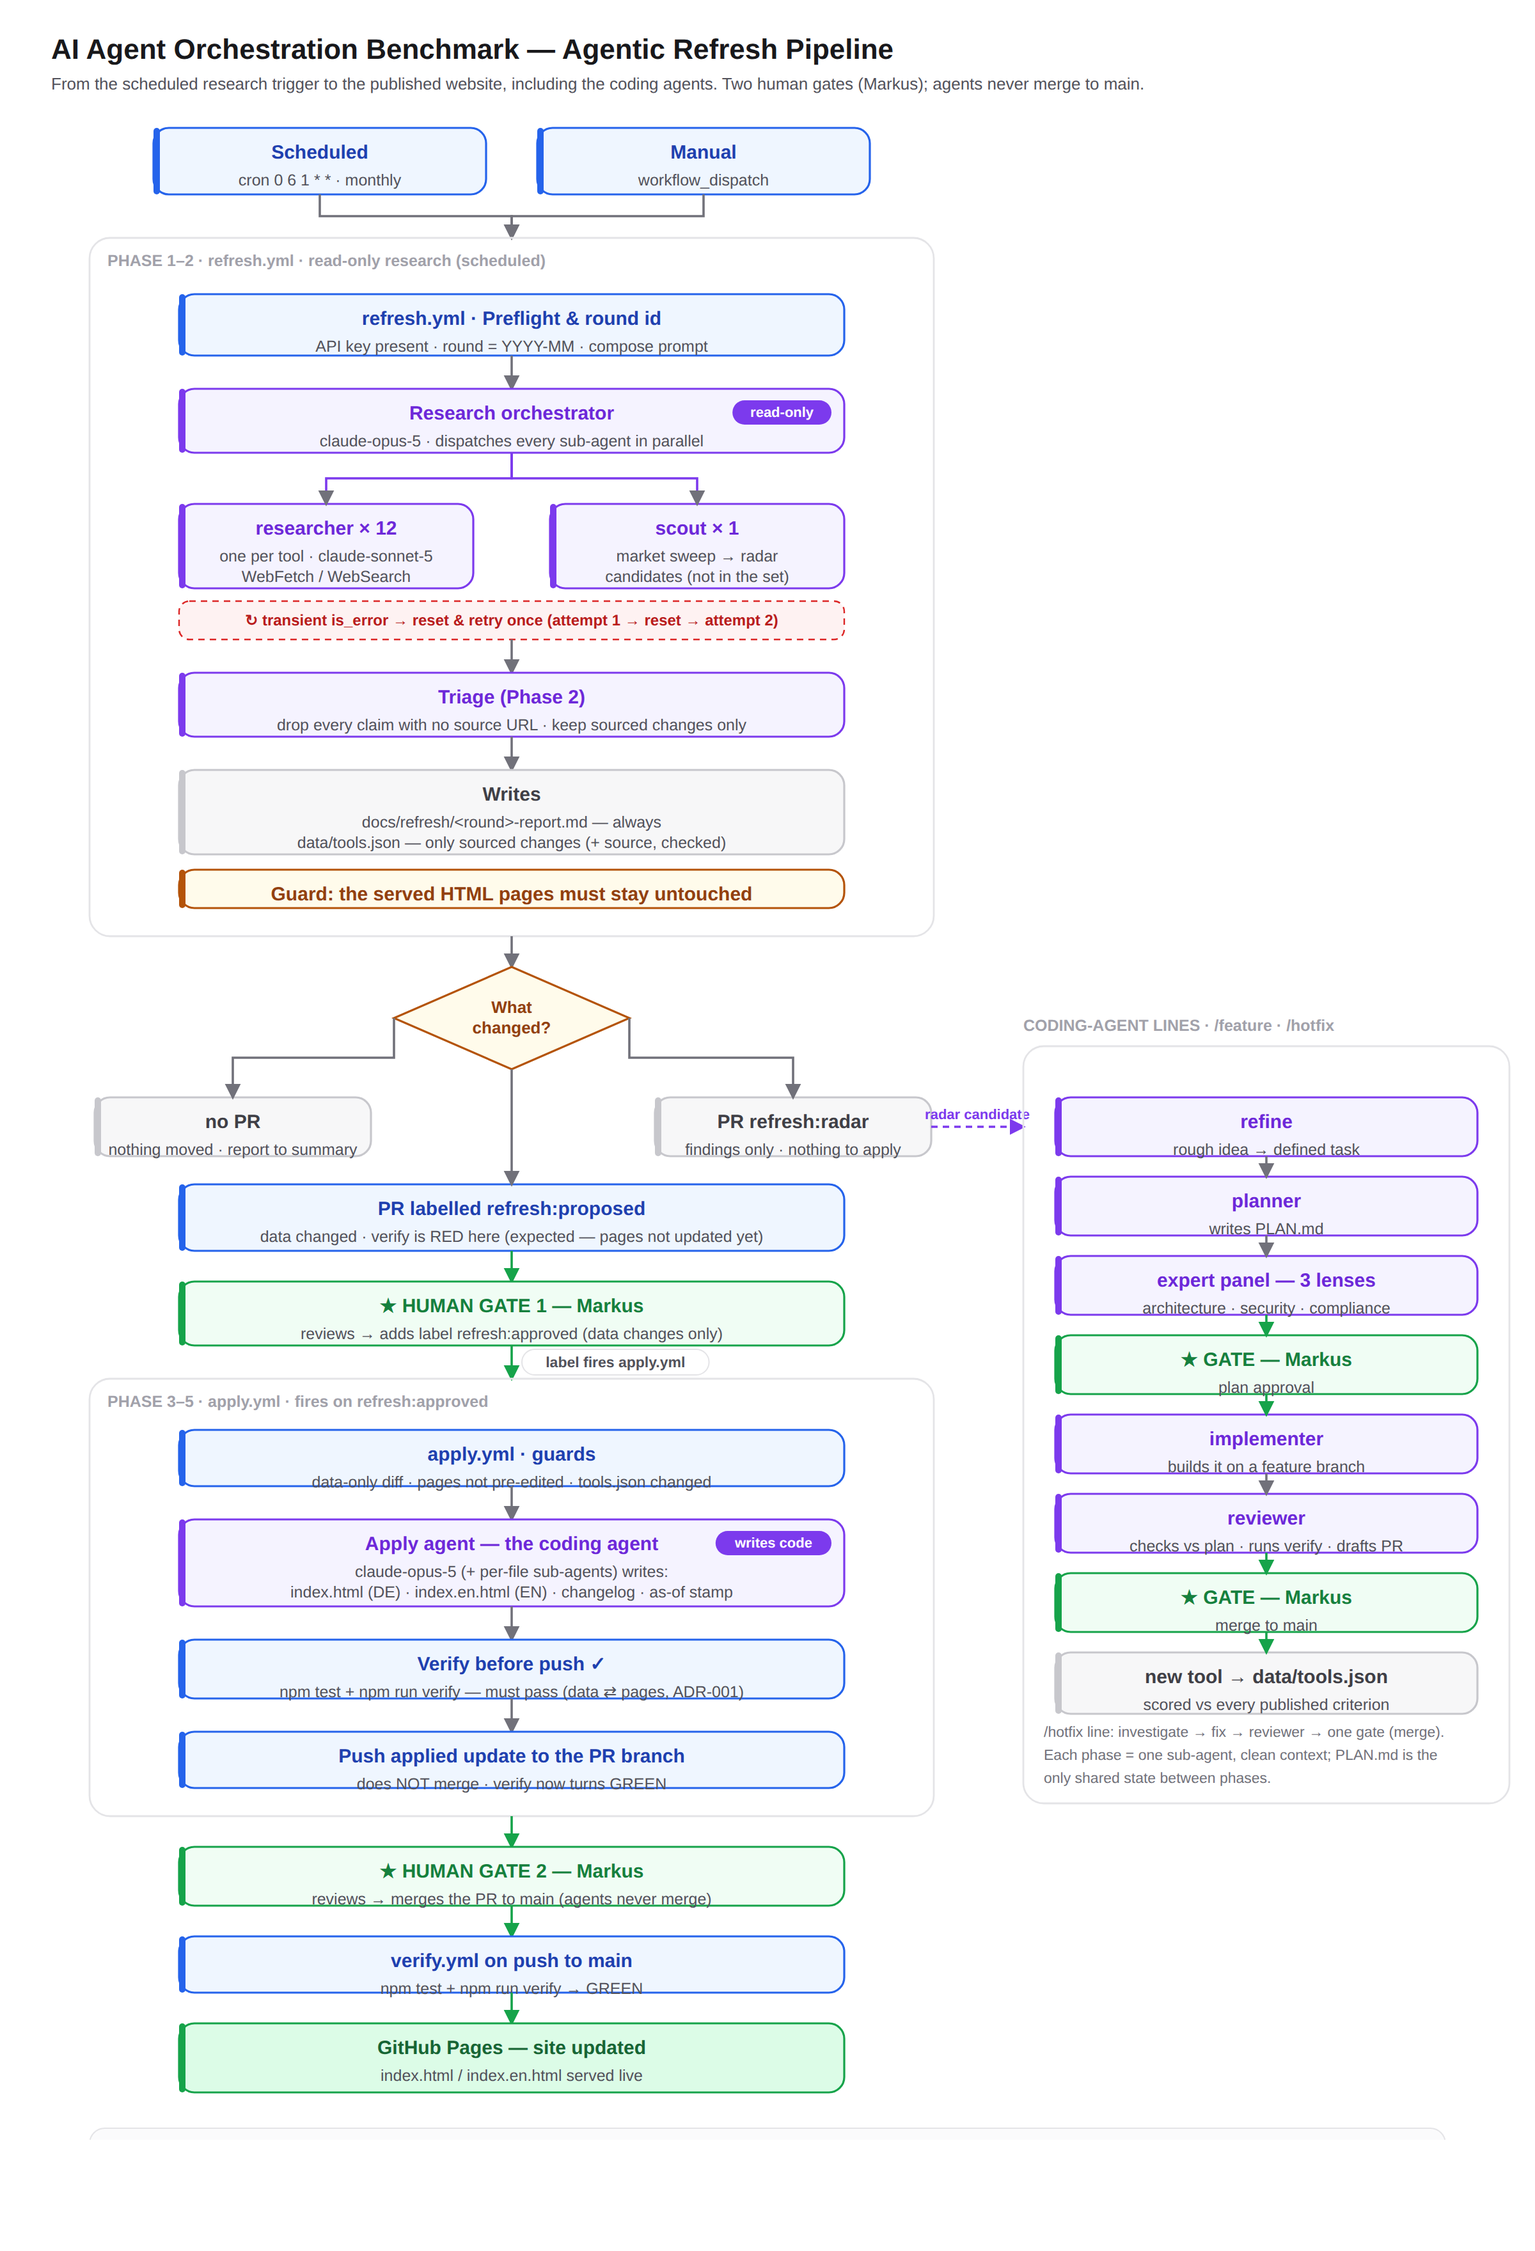
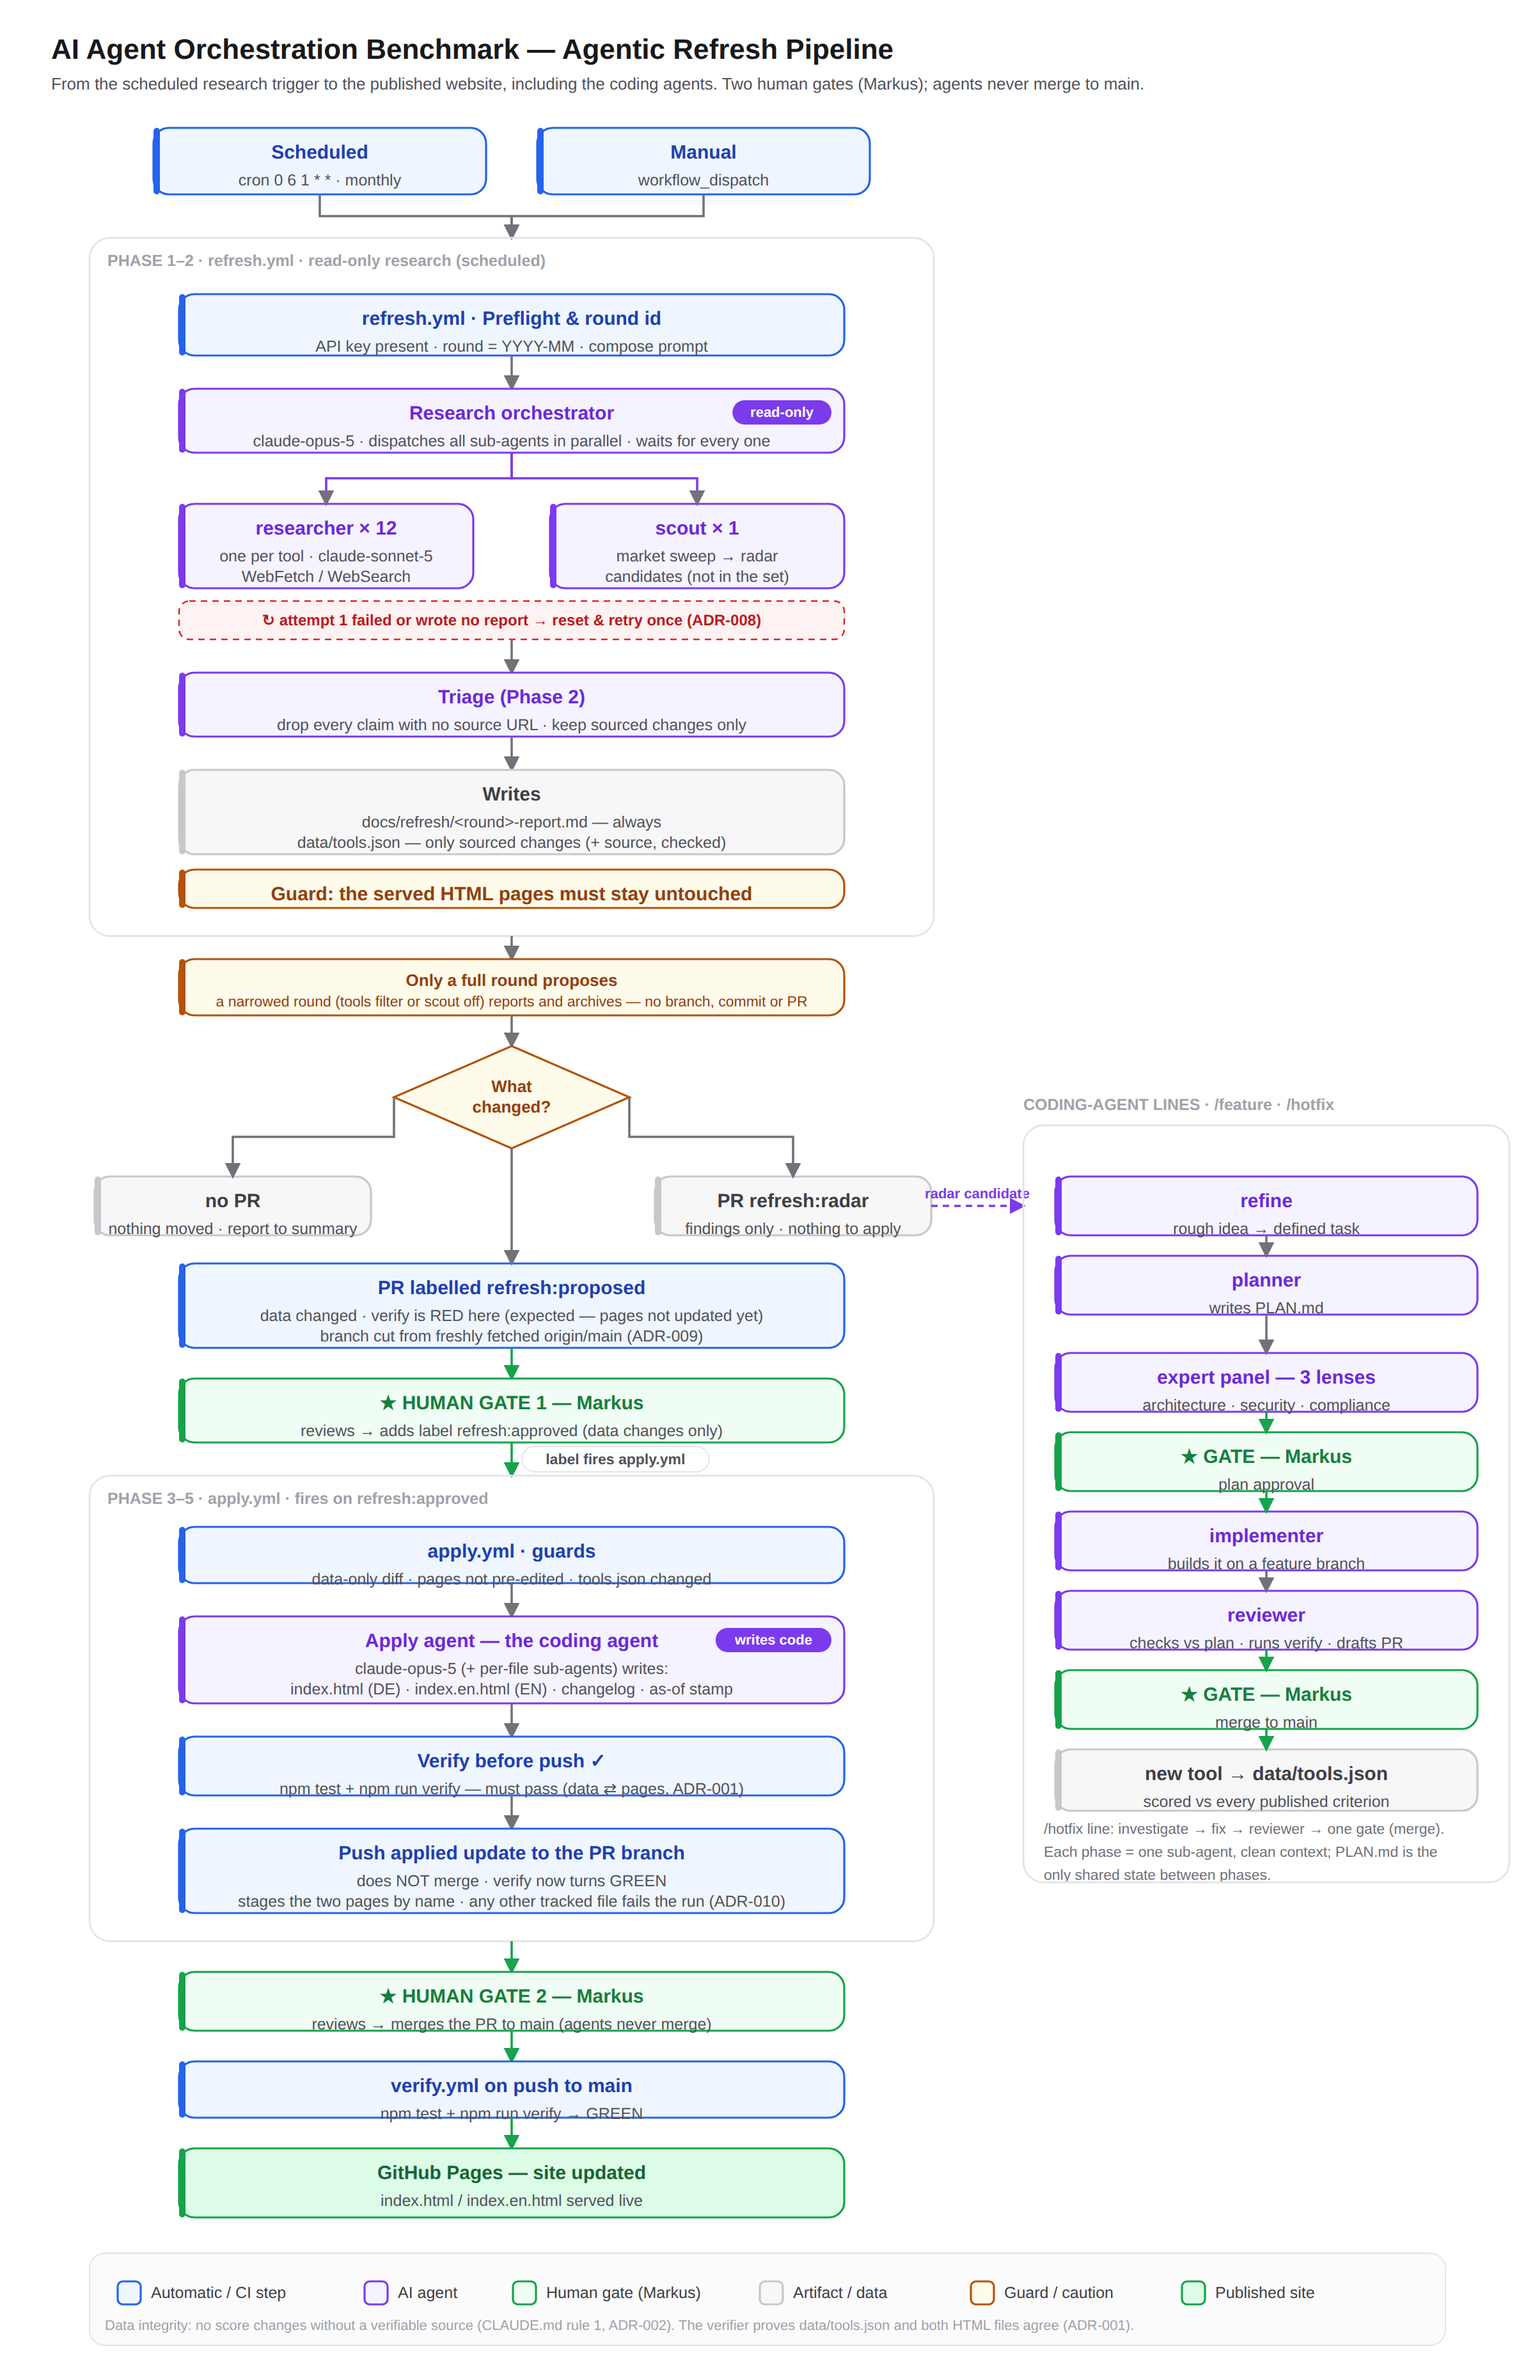
docs: bring the agentic workflow diagram back in step with the pipeline
The diagram was last touched at b656397. Four pipeline changes have landed
since, and none of the three files reflected any of them. One was not merely
missing but wrong: both the SVG and the prose said the research round retries
on a transient `is_error`, which is the trigger ADR-008 replaced.

  ADR-008  the orchestrator dispatches subagents in the foreground and waits;
           CI decides whether to retry from whether the report exists on disk,
           never from the action's exit code
  fbf1341  only a full round proposes — a narrowed round (tools filter, or
           scout off) still reports and archives, but creates no branch,
           commit or PR, whatever it found
  ADR-009  the proposal branch is cut from a freshly fetched origin/main at
           propose time, not from the commit the job checked out
  ADR-010  the apply commit stages index.html and index.en.html by name and
           fails if the step touched any other tracked file

Deliberately not added: the cost ledger from #59 and #60. This diagram runs
from the research trigger to the published site, and ADR-004 is explicit that
the ledger measures the factory rather than running in it.

Verified against the repository rather than from memory: twelve tools in
data/tools.json still matches `researcher × 12`, the cron is literally
'0 6 1 * *', and claude-sonnet-5 still matches the researcher and scout
frontmatter. Those were left alone.
[…]

diff --git a/docs/architecture/agentic-workflow.md b/docs/architecture/agentic-workflow.md
@@ -9,10 +9,13 @@ human gate → apply agent → verify → human gate → GitHub Pages, plus the
 /feature and /hotfix coding-agent lines](agentic-workflow.svg)
 
 > The diagram above is a static SVG (canonical). A rendered
-> [`agentic-workflow.png`](agentic-workflow.png) (2400×3520) is kept alongside
+> [`agentic-workflow.png`](agentic-workflow.png) (2400×3716) is kept alongside
 > it for download and for embedding where SVG is not supported. If the pipeline
 > changes, update the SVG next to the workflow files and re-export the PNG so
-> all three stay in step.
+> all three stay in step. Export from a viewport **taller** than the canvas and
+> crop back to exactly 2× the SVG's own `width`/`height`: headless Chromium
+> leaves the last ~64 px of the viewport unpainted, which is how the previous
+> export lost its legend row and footer line without anyone noticing.
 
 ## The refresh line (the recurring data update)
 
@@ -21,26 +24,41 @@ a monthly cron (`0 6 1 * *`) or manually via `workflow_dispatch`.
 
 **2 — Research (Phase 1–2, read-only).** After a preflight (API key, round
 id) the **research orchestrator** (`claude-opus-5`) dispatches every sub-agent
-in one message so they run in parallel:
+in one message so they run in parallel, in the **foreground** — it does not
+end its turn while one is still running ([ADR-008](../decisions/008-subagents-run-in-the-foreground.md)):
 
 - **`researcher` × 12** (`claude-sonnet-5`) — one per tool in
   `data/tools.json`, read-only, using WebFetch / WebSearch.
 - **`scout` × 1** — sweeps the market for orchestration tools *not* in the
   benchmark and returns radar candidates with evidence.
 
-A transient `is_error` aborts are survived by a single reset-and-retry
-(attempt 1 → reset the tree → attempt 2). **Triage** then drops every claim
-without a resolvable source URL and keeps only sourced changes.
+Whether to retry is decided from **whether the report exists on disk**, never
+from the action's exit code: an attempt that failed outright *and* one that
+reported success but wrote no report both earn the single reset-and-retry
+(attempt 1 → reset the tree → attempt 2). A green exit is evidence that a
+program ran, not that the phase did. **Triage** then drops every claim without
+a resolvable source URL and keeps only sourced changes.
 
 **3 — Writes.** The round always writes `docs/refresh/<round>-report.md`
 (evidence the round ran) and writes `data/tools.json` **only** for sourced
 changes — each carrying a `source` URL and a `checked` date. A guard fails
 the run if the research phase touched the served HTML.
 
-**4 — Outcome.** `data changed` → a PR labelled `refresh:proposed`
-(`verify` is expected to be **red** here — the data no longer matches the
-pages); `radar only` → `refresh:radar`; `neither` → no PR, report to the run
-summary.
+**4 — Outcome.** Only a **full round** — every tool, plus the scout — may
+propose. Any dispatch that narrows the scope (a `tools` filter, or `scout`
+off) is a debug round: it still writes, summarises and archives its report,
+but creates no branch, no commit and no PR, whatever it found. The round id is
+the calendar month, so a narrowed round that proposed would claim the branch
+and report filename the month's real round needs, and would carry evidence
+that overstates what was checked.
+
+For a full round: `data changed` → a PR labelled `refresh:proposed` (`verify`
+is expected to be **red** here — the data no longer matches the pages);
+`radar only` → `refresh:radar`; `neither` → no PR, report to the run summary.
+The proposal branch `refresh/<round>` is cut from a **freshly fetched**
+`origin/main` at the moment it proposes, not from the commit the job checked
+out when it started, with only `data/tools.json` and `docs/refresh/` restored
+onto it ([ADR-009](../decisions/009-proposal-branch-is-cut-from-current-main.md)).
 
 **★ Human gate 1 (Markus).** Reviews the proposal and adds the label
 `refresh:approved` — data changes only. That label fires
@@ -50,8 +68,11 @@ summary.
 (`claude-opus-5`, with per-file sub-agents) writes the approved values into
 both `index.html` (DE) and `index.en.html` (EN), adds the changelog entry and
 updates the as-of stamp. `npm test` + `npm run verify` must pass before the
-update is pushed to the PR branch. This step **does not merge**; `verify` now
-turns green.
+update is pushed to the PR branch, and the commit stages `index.html` and
+`index.en.html` **by name** — if the apply step modified any other tracked
+file, the run fails and prints the diff rather than sweeping it into a data PR
+([ADR-010](../decisions/010-apply-commits-only-the-served-pages.md)). This step
+**does not merge**; `verify` now turns green.
 
 **★ Human gate 2 (Markus).** Reviews and merges the PR to `main`. On push,
 [`verify.yml`](../../.github/workflows/verify.yml) runs green and GitHub Pages
